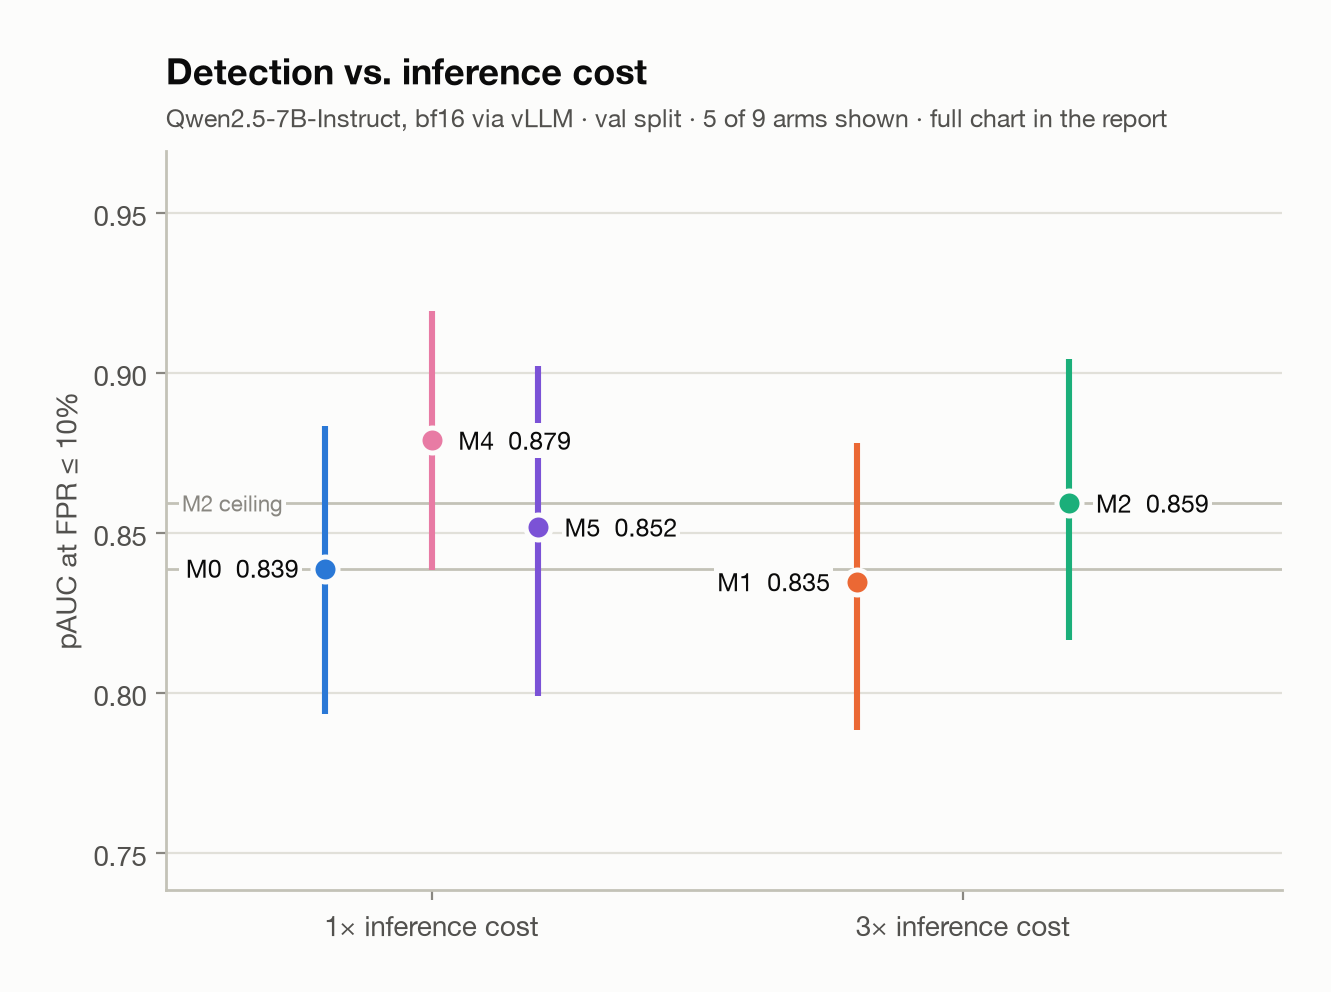
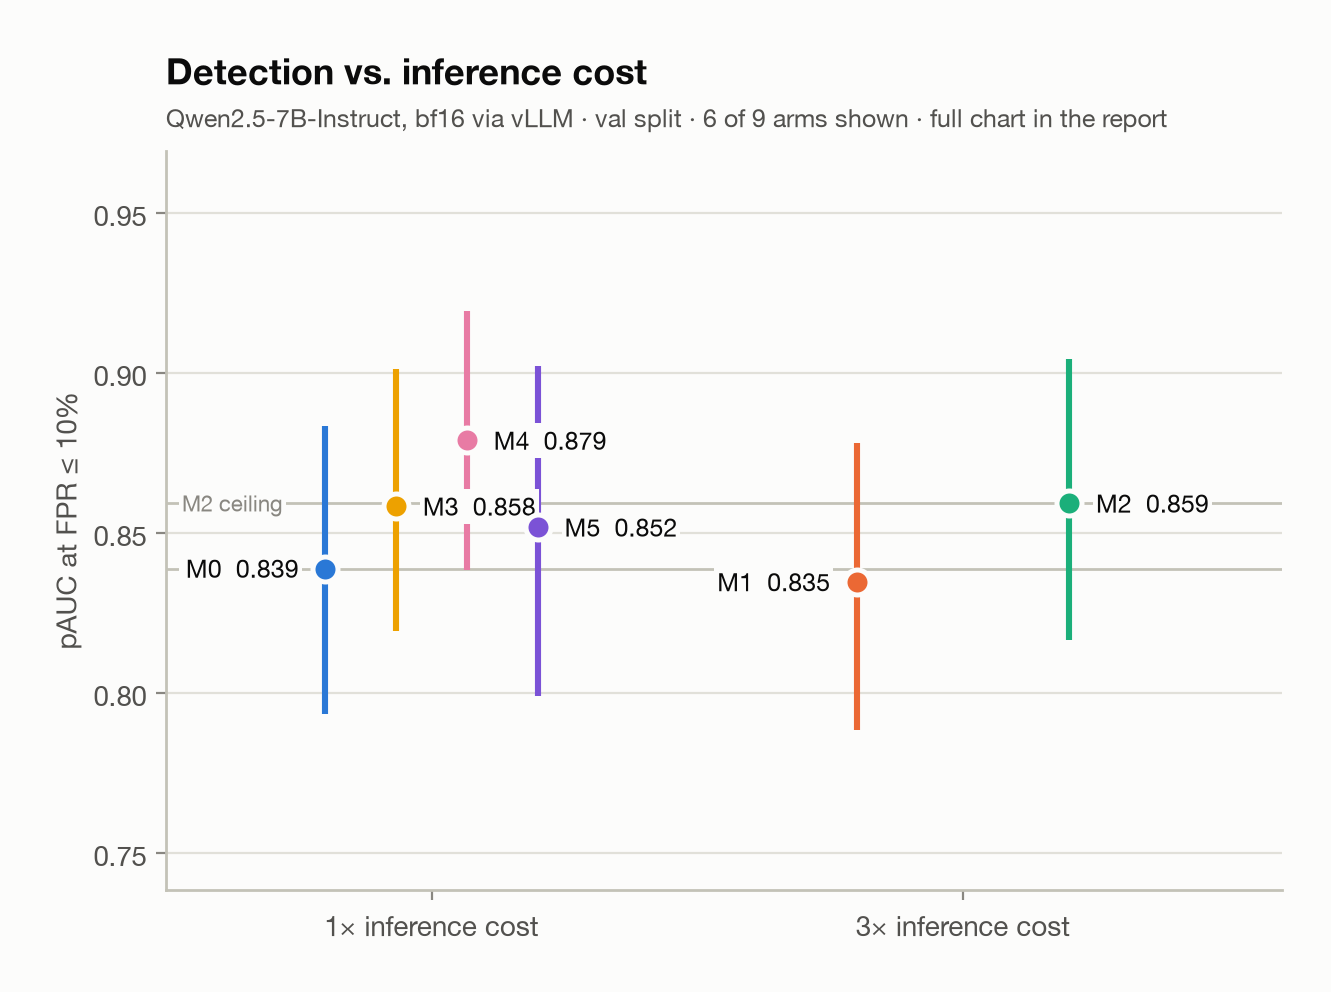
Keep M3 on the frontier; rebuild all_arms_roc as small multiples
M3 rejoins the headline frontier: against M4 it is the same recipe with
a redundant teacher instead of a diverse one, so the diversity claim is
visible in the opening figure rather than only in the ingredient chart.

all_arms_roc.png is now one panel per arm -- the highlighted arm in
colour against its peers in grey. Six curves cannot share one axes:
crossing lines are an all-pairs case, and the categorical palette
validates all-pairs for three series at most, past which no ordering of
any hues clears the separation floors. Checked, rather than assumed:
every five- and six-arm subset failed, including M1 orange against M4
pink at normal-vision 12.9, a latent flaw that only surfaces when curves
cross. Small multiples show all six in one image while never asking a
reader to tell two colours apart.

The single-axes version is kept as all_arms_roc_single.png for
reference, and the report says why it exists.

Changed region(s): [[0.2772, 0.3125, 0.4621, 0.625]]

diff --git a/src/figures.py b/src/figures.py
@@ -78,11 +78,13 @@ ROC_PANELS = (
     ("Does MACA's vote survive distillation?", ("m5", "m7", "m8")),
 )
 
-#: The frontier's one job is "1x reaches the 3x ceiling". These five arms make
-#: that comparison and nothing else: both ensembles at 3x, the floor, the
-#: winner, and the published recipe it is contrasted with. Every other arm
-#: belongs to a later section that has its own figure.
-HEADLINE_ARMS = ("m0", "m1", "m2", "m4", "m5")
+#: The frontier's one job is "1x reaches the 3x ceiling". These arms make that
+#: comparison: both ensembles at 3x, the floor, the two distilled arms and the
+#: published recipe at 1x. M3 earns its place against M4 -- same recipe, a
+#: redundant teacher instead of a diverse one -- so the diversity claim is
+#: visible here and not only in the ingredient chart. The remaining arms belong
+#: to later sections that have their own figures.
+HEADLINE_ARMS = ("m0", "m1", "m2", "m3", "m4", "m5")
 
 #: Diverging pair for the ingredient-cost chart: gains and losses need opposite
 #: poles with a neutral zero, never one hue ramped by size.
@@ -608,6 +610,76 @@ def plot_ingredient_costs(
     return _save(fig, path)
 
 
+def plot_roc_small_multiples(
+    results: dict[str, ArmScores],
+    summaries: dict[str, dict[str, Any]],
+    path: Path,
+    context: str,
+    arms: Sequence[str] = HEADLINE_ARMS,
+) -> Path:
+    """Draw one ROC panel per arm, each against its peers in grey.
+
+    Six curves cannot share one axes: crossing lines are an all-pairs case, and
+    the categorical palette validates all-pairs for **three** series at most --
+    past that no ordering of any hue set clears the separation floors, and the
+    documented fix is to facet. Small multiples do exactly that while still
+    showing every arm in a single image: each panel colours one arm and greys
+    the rest, so a colour never has to be told apart from another colour.
+
+    The grey backdrop is what makes the panels comparable -- each arm is read
+    against the same five peers, in the same place, at the same scale.
+
+    Args:
+        results: Primary-readout scores keyed by arm.
+        summaries: Primary ``summarize`` rows keyed by arm.
+        path: Destination file.
+        context: Setup and slice description.
+        arms: Which arms get a panel, in reading order.
+
+    Returns:
+        ``path``.
+    """
+    apply_style()
+    max_fpr = METRICS.pauc_max_fpr
+    present = [arm for arm in arms if arm in results]
+    if not present:
+        raise ValueError("none of the requested arms were scored")
+
+    columns = 3
+    rows = -(-len(present) // columns)  # ceil without importing math
+    fig, axes = plt.subplots(
+        rows, columns, figsize=(3.7 * columns, 3.25 * rows),
+        squeeze=False, sharex=True, sharey=True,
+    )
+    flat = [ax for row in axes for ax in row]
+
+    for ax, arm in zip(flat, present, strict=False):
+        _low_fpr_axes(ax, max_fpr)
+        for other in present:
+            if other != arm:
+                _roc_line(ax, results[other], color=GRIDLINE, linewidth=1.3,
+                          zorder=2)
+        _roc_line(ax, results[arm], color=ARM_COLORS[arm], linewidth=2.4,
+                  zorder=4)
+        ax.set_title(
+            f"{ARM_TITLES[arm]}   pAUC {summaries[arm]['pauc']:.3f}",
+            fontsize=9.5, color=INK, pad=7, loc="left",
+        )
+        ax.set_xlabel("")
+        ax.set_ylabel("")
+
+    for ax in flat[len(present):]:
+        ax.set_visible(False)
+
+    fig.supxlabel("False positive rate", color=INK_SECONDARY, fontsize=10)
+    fig.supylabel("True positive rate", color=INK_SECONDARY, fontsize=10)
+    _figure_heading(
+        fig, "Each arm against the others",
+        f"{context} · the highlighted arm in colour, its peers in grey",
+    )
+    return _save(fig, path)
+
+
 def plot_metric_intervals(
     summaries: dict[str, dict[str, Any]], path: Path, context: str
 ) -> Path:
@@ -921,14 +993,21 @@ def render_all(
         ))
 
     if len(primary) >= 2:
-        roc = plot_all_arms_roc(
+        grid = plot_roc_small_multiples(
             primary, primary_rows, out_dir / "all_arms_roc.png", context
         )
         comparison.append((
-            f"figures/{roc.name}",
-            "Reference view: every arm on one chart, with individual ensemble "
-            "members in grey. Curves overlap heavily -- the faceted version "
-            "above is the readable one.",
+            f"figures/{grid.name}",
+            "One panel per arm: the highlighted arm in colour against its peers "
+            "in grey. Six curves cannot share one axes, so each gets its own.",
+        ))
+        crowded = plot_all_arms_roc(
+            primary, primary_rows, out_dir / "all_arms_roc_single.png", context
+        )
+        comparison.append((
+            f"figures/{crowded.name}",
+            "The same arms on one axes, kept for reference. Curves overlap "
+            "heavily -- this is why the panels above exist.",
         ))
 
     cost_rows = [c for c in comparisons if c.get("readout") == PRIMARY_READOUT]

diff --git a/results/test/report.md b/results/test/report.md
@@ -1,6 +1,6 @@
 # Monitor distillation results — test split
 
-**Setup:** Qwen2.5-7B-Instruct, bf16 via vLLM · **Arms scored:** M0, M1, M2, M3, M4, M5, M6, M7, M8 · **Generated:** 2026-09-25 16:32 · commit `9fa005c` with uncommitted changes
+**Setup:** Qwen2.5-7B-Instruct, bf16 via vLLM · **Arms scored:** M0, M1, M2, M3, M4, M5, M6, M7, M8 · **Generated:** 2026-09-25 17:20 · commit `49e43b8` with uncommitted changes
 
 ## Summary
 
@@ -104,9 +104,13 @@ Both arms scored on the same items. ΔpAUC from a paired bootstrap; ΔAUROC and 
 
 *ROC at false-positive rates up to 10%, split by question. M4, the benchmark both questions are measured against, is the dashed line in each panel.*
 
-![Reference view: every arm on one chart, with individual ensemble members in grey. Curves overlap heavily -- the faceted version above is the readable one.](figures/all_arms_roc.png)
+![One panel per arm: the highlighted arm in colour against its peers in grey. Six curves cannot share one axes, so each gets its own.](figures/all_arms_roc.png)
 
-*Reference view: every arm on one chart, with individual ensemble members in grey. Curves overlap heavily -- the faceted version above is the readable one.*
+*One panel per arm: the highlighted arm in colour against its peers in grey. Six curves cannot share one axes, so each gets its own.*
+
+![The same arms on one axes, kept for reference. Curves overlap heavily -- this is why the panels above exist.](figures/all_arms_roc_single.png)
+
+*The same arms on one axes, kept for reference. Curves overlap heavily -- this is why the panels above exist.*
 
 ![What each ingredient is worth, as a difference with its 95% interval. Differences this small cannot be read off overlapping ROC curves.](figures/ingredient_costs.png)
 

diff --git a/results/val/report.md b/results/val/report.md
@@ -1,6 +1,6 @@
 # Monitor distillation results — val split
 
-**Setup:** Qwen2.5-7B-Instruct, bf16 via vLLM · **Arms scored:** M0, M1, M2, M3, M4, M5, M6, M7, M8 · **Generated:** 2026-09-25 16:33 · commit `9fa005c` with uncommitted changes
+**Setup:** Qwen2.5-7B-Instruct, bf16 via vLLM · **Arms scored:** M0, M1, M2, M3, M4, M5, M6, M7, M8 · **Generated:** 2026-09-25 17:21 · commit `49e43b8` with uncommitted changes
 
 ## Summary
 
@@ -102,9 +102,13 @@ Both arms scored on the same items. ΔpAUC from a paired bootstrap; ΔAUROC and 
 
 *ROC at false-positive rates up to 10%, split by question. M4, the benchmark both questions are measured against, is the dashed line in each panel.*
 
-![Reference view: every arm on one chart, with individual ensemble members in grey. Curves overlap heavily -- the faceted version above is the readable one.](figures/all_arms_roc.png)
+![One panel per arm: the highlighted arm in colour against its peers in grey. Six curves cannot share one axes, so each gets its own.](figures/all_arms_roc.png)
 
-*Reference view: every arm on one chart, with individual ensemble members in grey. Curves overlap heavily -- the faceted version above is the readable one.*
+*One panel per arm: the highlighted arm in colour against its peers in grey. Six curves cannot share one axes, so each gets its own.*
+
+![The same arms on one axes, kept for reference. Curves overlap heavily -- this is why the panels above exist.](figures/all_arms_roc_single.png)
+
+*The same arms on one axes, kept for reference. Curves overlap heavily -- this is why the panels above exist.*
 
 ![What each ingredient is worth, as a difference with its 95% interval. Differences this small cannot be read off overlapping ROC curves.](figures/ingredient_costs.png)
 

diff --git a/docs/blog-draft.md b/docs/blog-draft.md
@@ -49,8 +49,8 @@ an answer key.
 ![Detection vs inference cost](../results/test/figures/frontier_headline.png)
 
 Everything in the left column costs **1×**. The grey line is the 3× ensemble's
-score. **M4 — one model, one call — sits above it.** (Five arms shown; the
-other four belong to the sections below.)
+score. **M4 — one model, one call — sits above it**, and so does M3. (Six arms
+shown; the other three belong to the sections below.)
 
 - M4 0.810 vs M0 0.709: **+0.101** [+0.066, +0.135]
 - M4 vs M2, the 3× teacher: **+0.031** [−0.000, +0.061]
